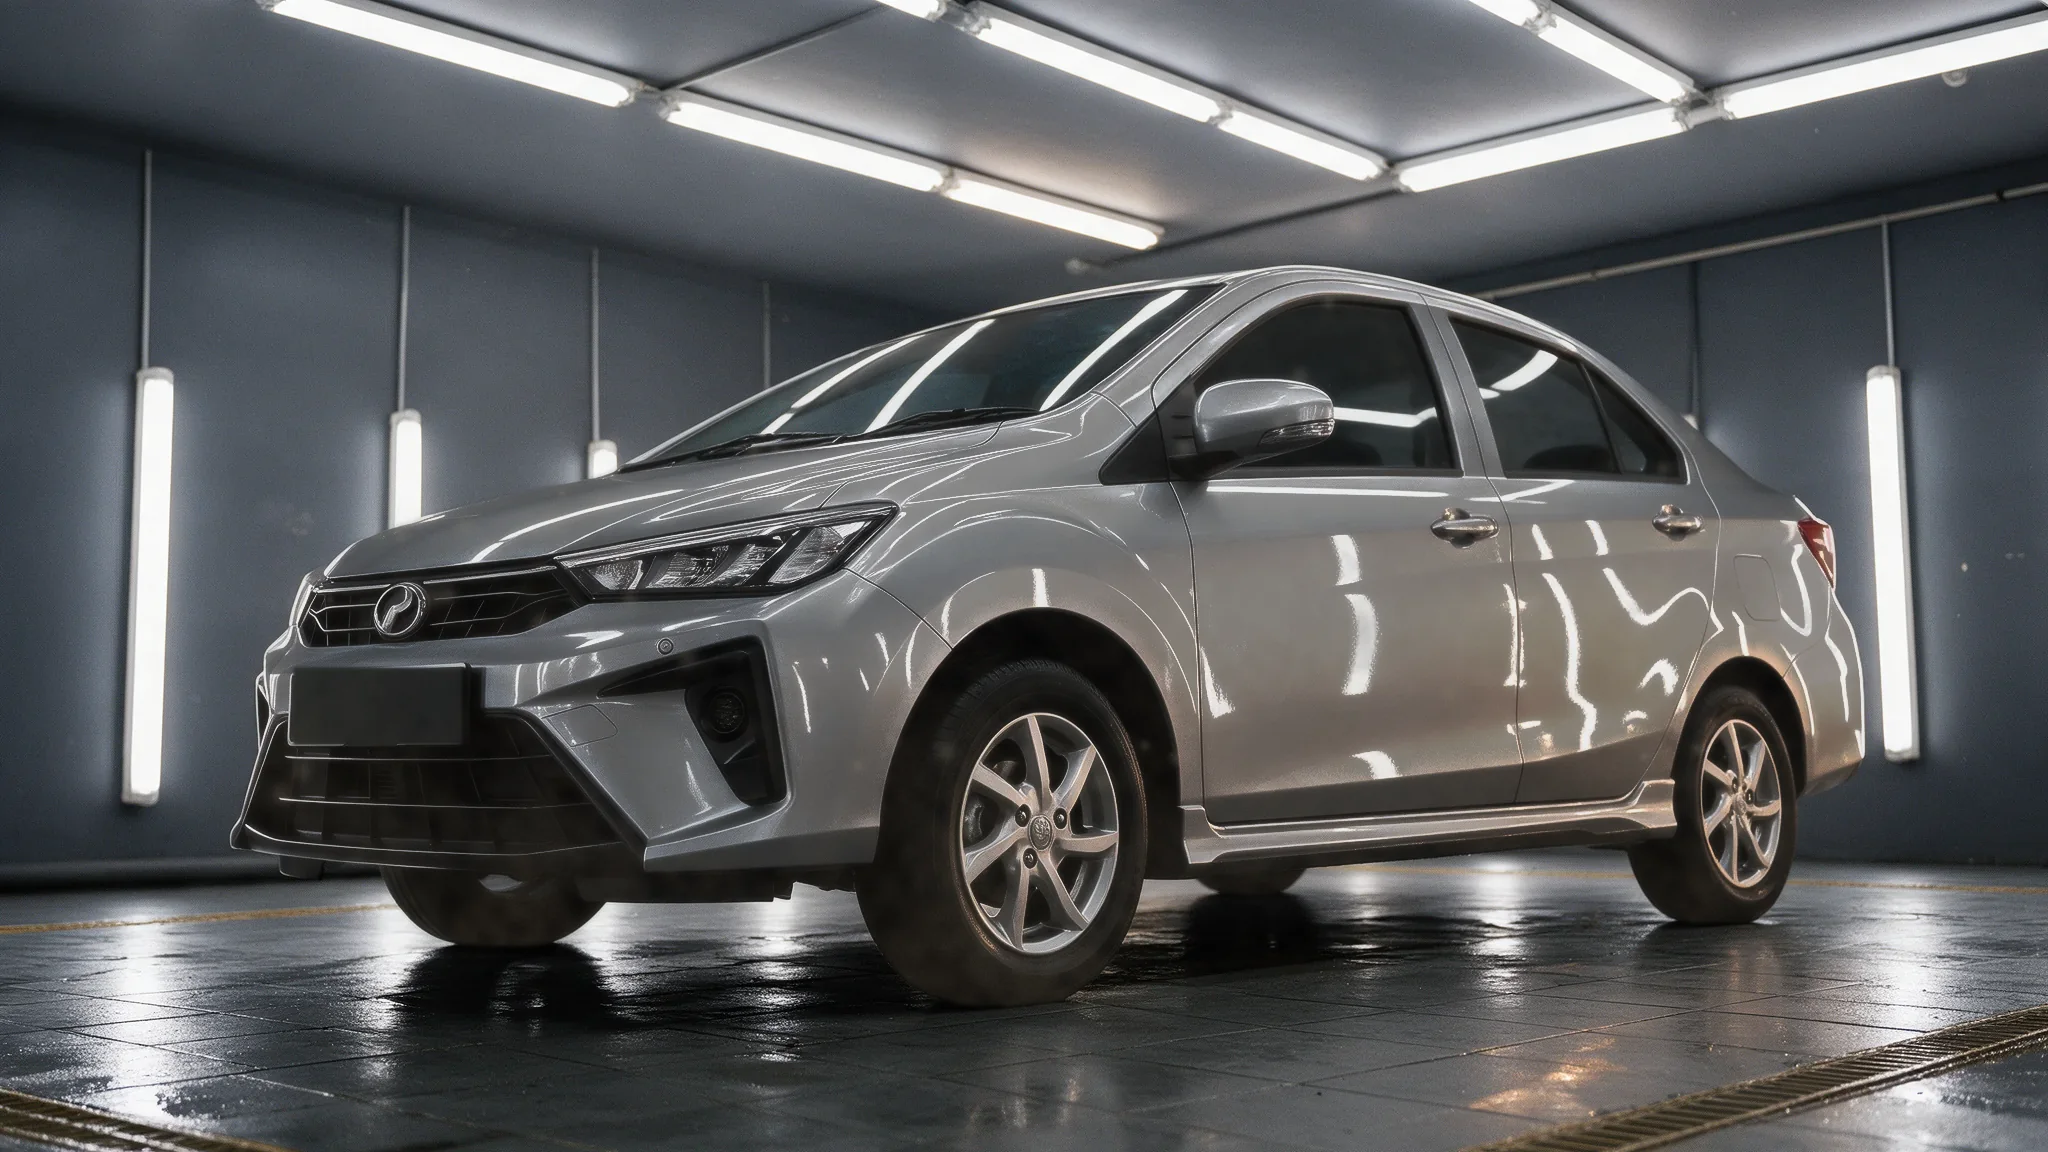
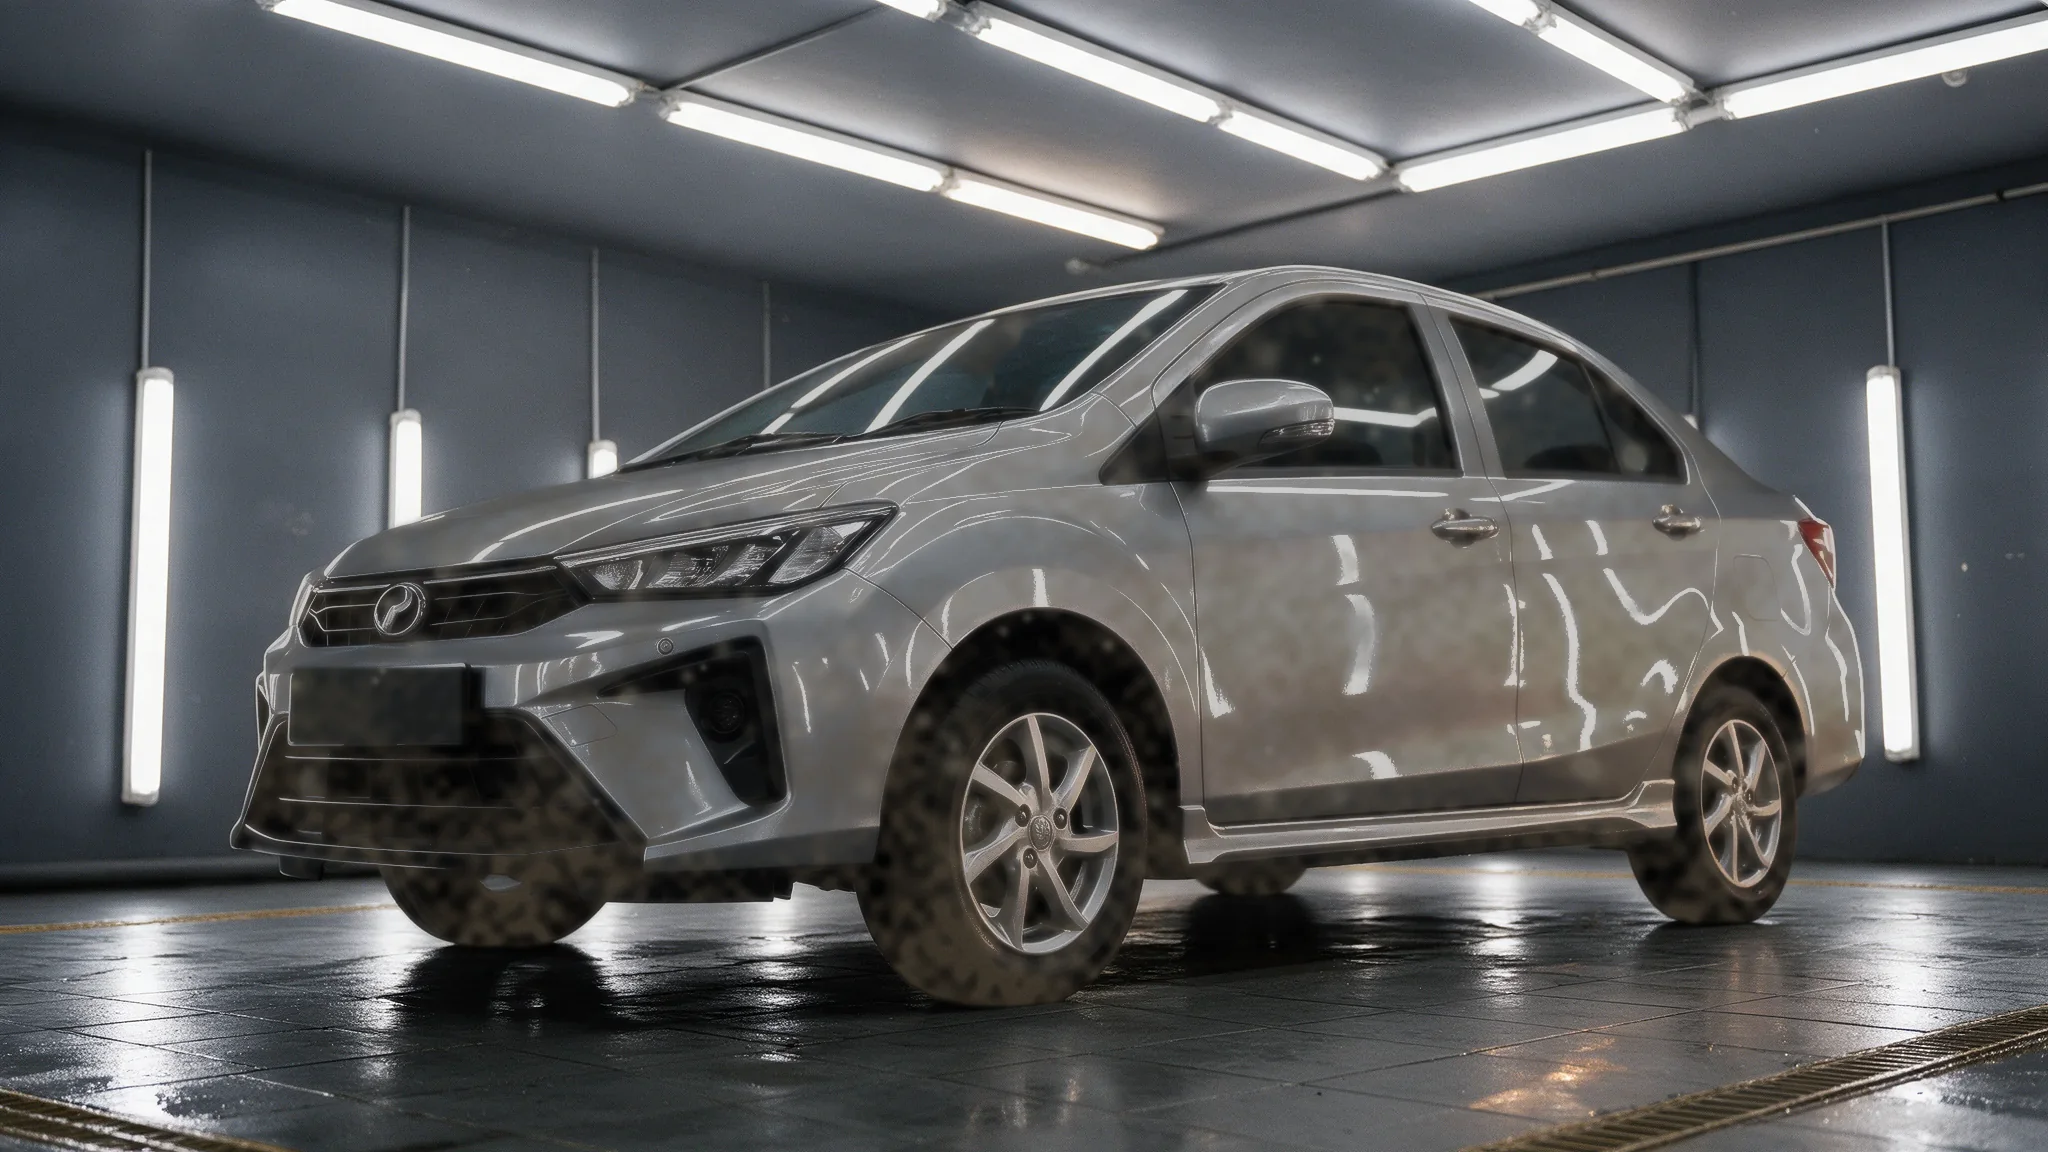
Hero emphasis, real grime, readable contact, footer mark gone
Hero subheading is larger and the promise about spend is lifted to white at a
heavier weight, so it reads as the point rather than trailing the service list.

The before/after was still reading as a filter for two reasons. The dust field
was smooth, where real grime is patchy and runs downward, so it now mixes fine
texture with vertical run-off streaks and is pushed to break into patches. And
the specular guard that keeps dirt off the lamps was also restoring 85% of the
paint's highlights, so the car stayed glossy under the dirt. That restore is
now confined to the tightest highlights, which keeps the lamps clean while the
paint goes properly flat.

The contact scrim was never working. Neither the photo nor ::before carried a
z-index, and ::before is the first child, so the photograph painted over the
scrim and every opacity increase did nothing. Both are now ordered explicitly.

Footer wordmark removed.

diff --git a/styles.css b/styles.css
@@ -151,7 +151,8 @@ a:focus-visible .roll .roll-b,button:focus-visible .roll .roll-b{transform:trans
 .hero-title{font-size:var(--fs-h1);line-height:1}
 .hero-foot{display:flex;align-items:flex-end;justify-content:space-between;gap:56px;flex-wrap:wrap}
 .hero-lede{max-width:430px;display:flex;flex-direction:column;align-items:flex-start;gap:28px}
-.hero-lede p{color:var(--on-ink-mute);font-size:var(--fs-note);line-height:1.4}
+.hero-lede p{color:var(--on-ink-mute);font-size:clamp(17px,1.6vw,23px);line-height:1.42}
+.hero-lede strong{font-weight:500;color:#fff}
 .stats{margin:0;min-width:360px}
 .stat{padding:14px 0;border-top:1px solid var(--line-dark)}
 .stat:first-child{border-top:0}
@@ -300,13 +301,16 @@ a:focus-visible .roll .roll-b,button:focus-visible .roll .roll-b{transform:trans
 /* ============ contact ============ */
 .contact{position:relative;overflow:hidden;color:#fff;
   padding-block:clamp(64px,6.95vw,100px)}
-.contact-bg{position:absolute;inset:0;width:100%;height:100%;object-fit:cover}
+.contact-bg{position:absolute;inset:0;z-index:0;width:100%;height:100%;object-fit:cover}
 /* The copy column sits over the brightest part of the bay photograph, so the
    scrim is weighted to the left rather than raised evenly, which would flatten
-   the whole image. Mobile stacks the columns, so it gets a vertical one. */
-.contact::before{content:"";position:absolute;inset:0;
-  background:linear-gradient(to right,rgba(6,6,7,.88) 0%,rgba(6,6,7,.78) 32%,
-    rgba(6,6,7,.60) 60%,rgba(6,6,7,.56) 100%)}
+   the whole image. Mobile stacks the columns, so it gets a vertical one.
+
+   z-index matters here: ::before is the first child, so without it the photo
+   paints over the scrim and raising the opacity does nothing at all. */
+.contact::before{content:"";position:absolute;inset:0;z-index:1;
+  background:linear-gradient(to right,rgba(5,5,6,.95) 0%,rgba(5,5,6,.90) 34%,
+    rgba(5,5,6,.76) 62%,rgba(5,5,6,.70) 100%)}
 .contact-in{position:relative;z-index:2;display:grid;
   grid-template-columns:minmax(0,1fr) minmax(0,1fr);gap:64px;align-items:start}
 /* A soft shadow handles the LED streaks that run through this column, so the
@@ -352,10 +356,6 @@ a:focus-visible .roll .roll-b,button:focus-visible .roll .roll-b{transform:trans
 .foot-col a{transition:color .25s var(--ease)}
 .foot-col a:hover{color:var(--gold)}
 .foot-label{color:var(--gold);margin-bottom:6px}
-.foot-mark{font-family:var(--mono);text-align:center;white-space:nowrap;
-  font-size:clamp(30px,12.9vw,196px);line-height:.9;margin:48px 0 -.12em;
-  color:rgba(255,255,255,.035);-webkit-text-stroke:1px rgba(255,255,255,.26)}
-
 /* ============ tablet ============ */
 @media (max-width:1199px){
   :root{--gut:32px}
@@ -396,8 +396,8 @@ a:focus-visible .roll .roll-b,button:focus-visible .roll .roll-b{transform:trans
   .form{padding:26px}
   .field-row{grid-template-columns:1fr}
   .contact-details{grid-template-columns:1fr;gap:22px}
-  .contact::before{background:linear-gradient(to bottom,rgba(6,6,7,.88) 0%,
-    rgba(6,6,7,.80) 48%,rgba(6,6,7,.62) 100%)}
+  .contact::before{background:linear-gradient(to bottom,rgba(5,5,6,.94) 0%,
+    rgba(5,5,6,.88) 48%,rgba(5,5,6,.74) 100%)}
   .foot-in{grid-template-columns:1fr 1fr}
   .foot-brand{grid-column:1/-1}
   .ba-tag{top:12px;font-size:11px;padding:5px 9px}

diff --git a/index.html b/index.html
@@ -53,7 +53,7 @@
     <h1 class="hero-title reveal">Wash with care.<br><span class="accent">Guard with pride.</span></h1>
     <div class="hero-foot">
       <div class="hero-lede reveal">
-        <p>Ceramic coating, paint protection film, tint and detailing for cars and motorbikes. Whatever you drive and whatever you spend, the standard does not change.</p>
+        <p>Ceramic coating, paint protection film, tint and detailing for cars and motorbikes. <strong>Whatever you drive and whatever you spend, the standard does not change.</strong></p>
         <a class="btn btn-light" href="#services">SEE OUR SERVICES <i class="ico" aria-hidden="true">&#8594;</i></a>
       </div>
       <dl class="stats reveal">
@@ -379,7 +379,6 @@
       <a href="https://www.tiktok.com/@wash.n.guard" target="_blank" rel="noopener">TIKTOK</a>
     </div>
   </div>
-  <p class="foot-mark" aria-hidden="true">WASH &amp; GUARD</p>
 </footer>
 
 <script src="vendor/lenis.min.js"></script>

diff --git a/tools/make_before.py b/tools/make_before.py
@@ -38,7 +38,7 @@ print('car luminance %.2f -> %s car' % (car_lum, 'light' if light_car else 'dark
 
 if light_car:
     DUST = np.array([0.36, 0.315, 0.25], dtype=np.float32)
-    STRENGTH, EXPOSURE, LIFT, SOFT, SPOTS = 0.62, 0.84, 0.004, 0.40, 0.22
+    STRENGTH, EXPOSURE, LIFT, SOFT, SPOTS = 0.62, 0.84, 0.004, 0.58, 0.34
 else:
     DUST = np.array([0.62, 0.575, 0.50], dtype=np.float32)
     STRENGTH, EXPOSURE, LIFT, SOFT, SPOTS = 0.30, 0.965, 0.017, 0.20, 0.13
@@ -49,8 +49,19 @@ def octave(scale):
     small = rng.random((max(2, H // scale), max(2, W // scale)))
     return zoom(small, (H / small.shape[0], W / small.shape[1]), order=3)
 
-dust = 0.38 * octave(110) + 0.34 * octave(40) + 0.28 * octave(13)
-dust = gaussian_filter((dust - dust.min()) / (np.ptp(dust) + 1e-6), 1.2)
+def streaks():
+    small = rng.random((max(2, H // 7), max(2, W // 90)))
+    out = zoom(small, (H / small.shape[0], W / small.shape[1]), order=3)
+    return gaussian_filter(out, (7, 0.9))
+
+# Real grime is patchy and runs downward. A smooth field reads as a filter laid
+# over the photo, so this mixes fine texture with vertical run-off streaks and
+# then pushes the contrast up so it breaks into patches rather than a wash.
+dust = (0.28 * octave(110) + 0.26 * octave(40) + 0.28 * octave(11)
+        + 0.18 * streaks())
+dust = (dust - dust.min()) / (np.ptp(dust) + 1e-6)
+dust = np.clip((dust - 0.30) / 0.46, 0, 1)
+dust = gaussian_filter(dust, 0.9)
 
 ys = np.linspace(0, 1, H)[:, None]
 settled = np.clip((1.15 - ys * 0.7) ** 2.1, 0, 1.4)          # dust on upward faces
@@ -70,7 +81,7 @@ dust_amt = np.clip(dust * weight, 0, 1)[..., None]
 # ---- 3. kill the gloss -------------------------------------------------------
 soft = np.asarray(base.filter(ImageFilter.GaussianBlur(3.0))).astype(np.float32) / 255.0
 work = a * (1 - SOFT) + soft * SOFT
-work = np.where(work > 0.62, 0.62 + (work - 0.62) * (0.34 if light_car else 0.58), work)
+work = np.where(work > 0.62, 0.62 + (work - 0.62) * (0.22 if light_car else 0.58), work)
 work = work * EXPOSURE + LIFT
 grey = work.mean(axis=2, keepdims=True)
 work = grey + (work - grey) * (0.70 if light_car else 0.80)
@@ -82,9 +93,9 @@ work += (rng.random((H, W, 1)).astype(np.float32) - 0.5) * 0.034 * dust_amt
 # ---- 5. dried water spots ----------------------------------------------------
 spots = np.zeros((H, W), dtype=np.float32)
 yy, xx = np.mgrid[0:H, 0:W]
-for _ in range(130):
+for _ in range(260):
     cx, cy = rng.integers(0, W), rng.integers(int(H * 0.20), int(H * 0.70))
-    r = rng.uniform(2.5, 8)
+    r = rng.uniform(2, 11)
     spots += np.exp(-(((xx - cx) ** 2 + (yy - cy) ** 2) / (2 * r * r)))
 spots = np.clip(spots, 0, 1) * SPOTS
 tone = np.array([0.56, 0.53, 0.47]) if light_car else np.array([0.72, 0.70, 0.66])
@@ -93,7 +104,7 @@ work = work * (1 - spots[..., None]) + tone * spots[..., None]
 # ---- 6. composite over the untouched bay -------------------------------------
 # let the original specular highlights read back through, so lamps and glass
 # keep their shine while the paint around them goes flat
-keep = (spec * 0.85)[..., None] * m
+keep = (np.clip((spec - 0.55) / 0.45, 0, 1) * 0.55)[..., None] * m
 work = np.clip(work, 0, 1) * (1 - keep) + a * keep
 out = a * (1 - m) + np.clip(work, 0, 1) * m
 halo = np.clip(gaussian_filter(mask, 26) - mask, 0, 1)[..., None]
